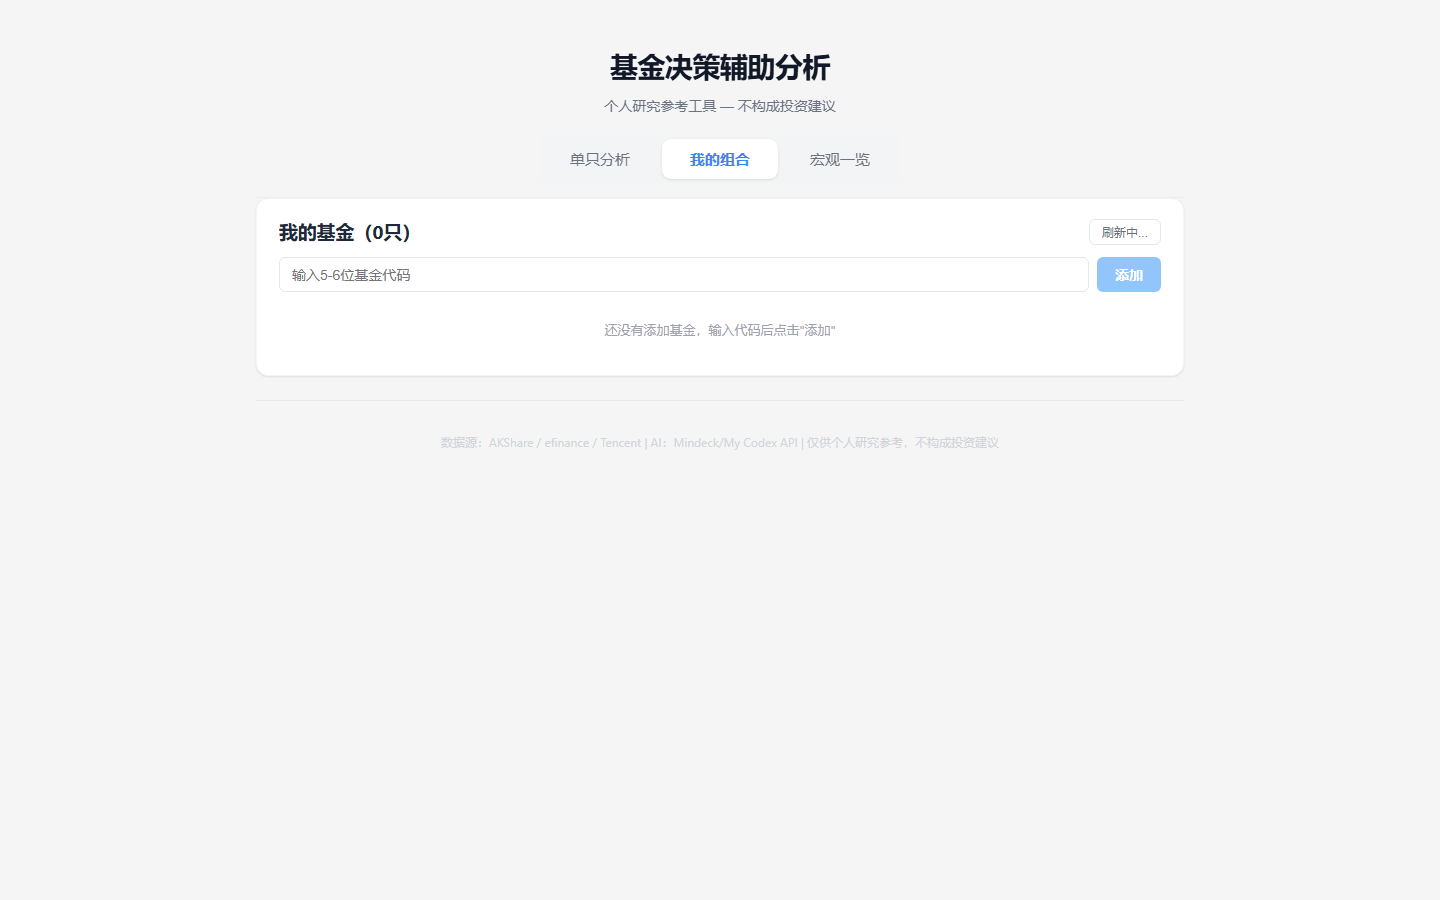
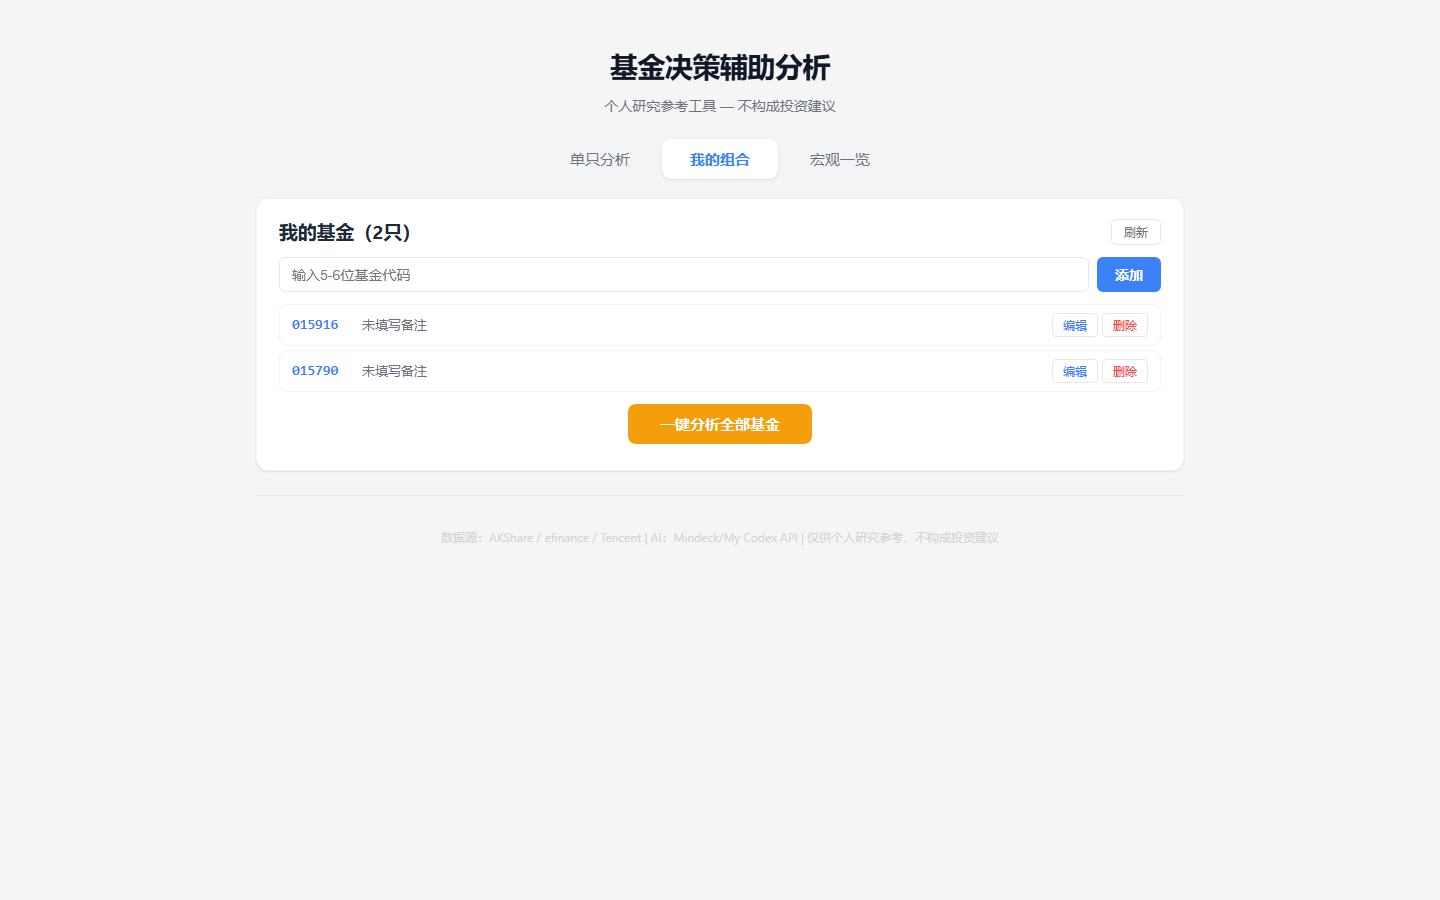
fix: update screenshots with complete analysis results including forecast card
- Fix Playwright capture script to use Python httpx for API forwarding
- Headless Chromium cannot reach Vite proxy, so API calls are made from Python side
- Screenshots now show forecast card, risk gauge, and complete analysis tabs

diff --git a/scripts/capture_screenshots.py b/scripts/capture_screenshots.py
@@ -1,21 +1,49 @@
 """Capture screenshots for GitHub README using Playwright."""
 import asyncio
+import httpx
 from playwright.async_api import async_playwright
 import os
 
 OUTPUT_DIR = "E:/agentlearn/gold/docs/screenshots"
 BASE_URL = "http://localhost:3000"
+BACKEND = "http://127.0.0.1:8000"
+
+
+async def intercept_api(route, client):
+    """Forward API requests to backend via Python httpx, bypassing browser network."""
+    url = route.request.url.replace(BASE_URL, BACKEND)
+    method = route.request.method
+    headers = {k: v for k, v in route.request.headers.items()
+               if k.lower() not in ("host", "origin", "referer", "content-length")}
+    body = route.request.post_data
+    try:
+        if method == "GET":
+            resp = await client.get(url, headers=headers, timeout=120.0)
+        else:
+            resp = await client.post(url, headers=headers, content=body, timeout=120.0)
+        await route.fulfill(
+            status=resp.status_code,
+            headers=dict(resp.headers),
+            body=resp.content,
+        )
+    except Exception as e:
+        print(f"   [route error] {method} {url}: {e}")
+        await route.fulfill(status=502, body=f'{{"error":"{e}"}}')
+
 
 async def main():
     os.makedirs(OUTPUT_DIR, exist_ok=True)
 
-    async with async_playwright() as p:
+    async with async_playwright() as p, httpx.AsyncClient() as client:
         browser = await p.chromium.launch(headless=True)
         context = await browser.new_context(
             viewport={"width": 1440, "height": 900},
             device_scale_factor=1,
         )
         page = await context.new_page()
+
+        # Intercept /api/* requests and forward via Python httpx
+        await page.route("**/api/**", lambda route: intercept_api(route, client))
 
         # 1. Home/Analyze page - initial empty state
         print("1. Capturing analyze page (initial state)...")
@@ -28,16 +56,21 @@ async def main():
         print("2. Entering fund code 161725...")
         input_field = page.locator('input[placeholder*="基金代码"]')
         await input_field.fill("161725")
-        analyze_btn = page.locator('button.analyze-btn')
+        analyze_btn = page.locator("button.analyze-btn")
         await analyze_btn.click()
-        print("   Waiting for API response (up to 15s)...")
-        await page.wait_for_timeout(15000)
+        print("   Waiting for forecast data to load (up to 120s)...")
+        try:
+            await page.wait_for_selector(".forecast-card", timeout=120000)
+            print("   Forecast card appeared, waiting for all blocks to render...")
+            await page.wait_for_timeout(2000)
+        except Exception:
+            print("   WARNING: Forecast card did not appear within 120s, capturing anyway...")
         await page.screenshot(path=f"{OUTPUT_DIR}/02-analyze-result.png", full_page=True)
         print("   -> 02-analyze-result.png")
 
         # 3. Portfolio page
         print("3. Capturing portfolio page...")
-        portfolio_tab = page.locator('button.main-tab').nth(1)
+        portfolio_tab = page.locator("button.main-tab").nth(1)
         await portfolio_tab.click()
         await page.wait_for_timeout(2000)
         await page.screenshot(path=f"{OUTPUT_DIR}/03-portfolio.png", full_page=True)
@@ -45,7 +78,7 @@ async def main():
 
         # 4. Macro dashboard
         print("4. Capturing macro dashboard...")
-        macro_tab = page.locator('button.main-tab').nth(2)
+        macro_tab = page.locator("button.main-tab").nth(2)
         await macro_tab.click()
         await page.wait_for_timeout(5000)
         await page.screenshot(path=f"{OUTPUT_DIR}/04-macro-dashboard.png", full_page=True)
@@ -53,6 +86,7 @@ async def main():
 
         await browser.close()
         print("\nDone! All screenshots saved to docs/screenshots/")
+
 
 if __name__ == "__main__":
     asyncio.run(main())